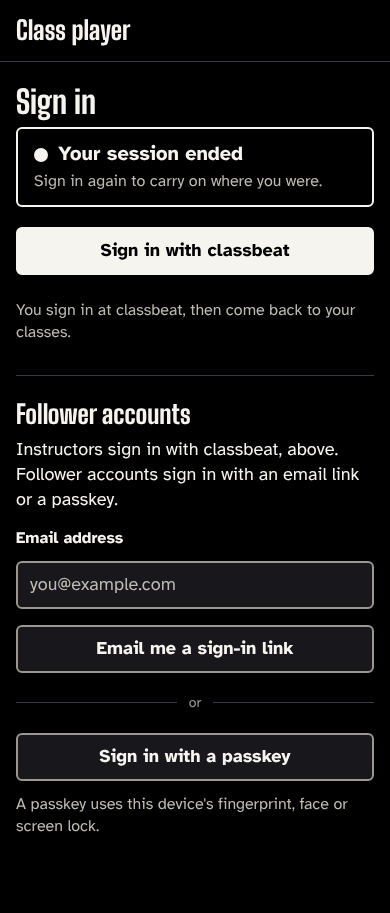
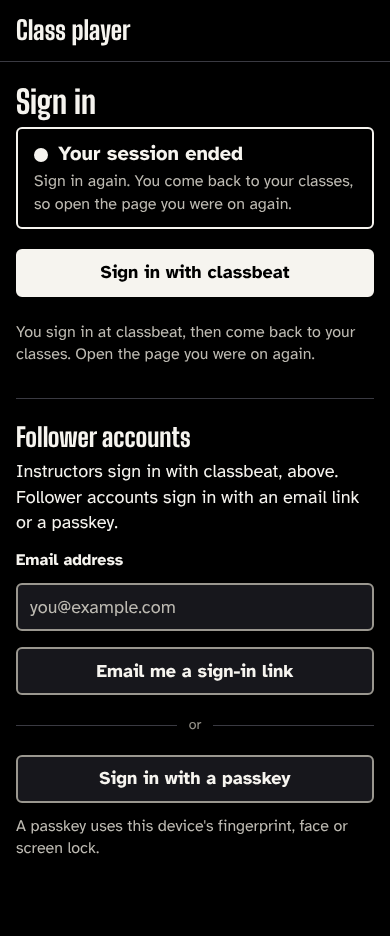
docs(design): a classbeat sign-in keeps no way back; refused re-authentication (#511)
Sign-in lands on /classes, so the session-ended page and the return
paragraph say so; the email-link return is follower-only. New state for
a refused re-authentication (still signed in, never starts sign_in).
Opening and the reason line are marked as not yet built, with the
build differences from #508. Offline mock-up, backend gaps noted.

Claude-Session: https://claude.ai/code/session_01V8DoTxwfzpAUiHqVx7SjRn

Changed region(s): [[0.0308, 0.4294, 0.9538, 0.92], [0.0, 0.0307, 1.0, 0.3987]]

diff --git a/docs/design/mockups/site-pages.js b/docs/design/mockups/site-pages.js
@@ -40,13 +40,15 @@ add('sign-in-link', 'Finish signing in', null, `${h1('Finish signing in')}${p('P
 add('sign-in-link-working', 'Signing in', null, `${h1('Finish signing in')}${status('Signing you in…')}${btns(btn('Sign in', { primary: true, dis: true, block: true }))}`, 'State: waiting for POST /api/site/sign-in/complete. The button stays but cannot be pressed again.', true);
 add('sign-in-link-refused', 'Link cannot be used', null, `${h1('Sign in')}${plate('This link cannot be used', 'It may have run out (a link works for 15 minutes), been used already, or been asked for in a different browser.')}${h2('Get a new link')}${p('Ask for it in the browser you want to sign in with.')}${signInForm({ email: { hint: '' } })}`, 'State: 401 sign_in_refused from POST /api/site/sign-in/complete. One answer for every refusal.', true);
 add('sign-in-passkey-waiting', 'Sign in: waiting for passkey', null, `${h1('Sign in')}${status('Waiting for your passkey. Follow the prompt from your browser or device.')}${signInForm({ passkey: 'Waiting for your passkey…', passkeyDis: true, emailDis: true, classbeatDis: true })}`, 'State: the browser asks for a passkey (navigator.credentials.get) after POST /api/site/sign-in/passkey/options. The classbeat, email and passkey actions are all off, so only one request is under way.', true);
-add('sign-in-passkey-failed', 'Sign in: passkey failed', null, `${h1('Sign in')}${plate('That passkey could not be used', 'The request may have been cancelled, or the passkey may have been removed. Try again, or get a link by email.', btn('Try again', { q: true }))}${signInForm({ email: { hint: '' } })}`, 'State: the browser cancelled, or 401 from POST /api/site/sign-in/passkey/complete. A 429 from it shows the "Too many sign-in requests" plate.', true);
-add('sign-in-session-ended', 'Sign in: session ended', null, `${h1('Sign in')}${note('Your session ended', 'Sign in again to carry on where you were.')}${signInForm({ email: { hint: '' } })}`, 'State: any signed-in route answered 401 not_signed_in. The page the person was on is kept (same-site paths only) and opened after sign-in.', true);
+add('sign-in-passkey-failed', 'Sign in: passkey failed', null, `${h1('Sign in')}${plate('That passkey could not be used', 'The request may have been cancelled, or the passkey may have been removed. Try again, or ask for an email link below.', btn('Try again', { q: true }))}${signInForm({ email: { hint: '' } })}`, 'State: the browser cancelled, or 401 from POST /api/site/sign-in/passkey/complete. A 429 from it shows the "Too many sign-in requests" plate.', true);
+add('sign-in-session-ended', 'Sign in: session ended', null, `${h1('Sign in')}${note('Your session ended', 'Sign in again. You come back to your classes, so open the page you were on again.')}${signInForm({ email: { hint: '' }, line: `${LINE} Open the page you were on again.` })}`, 'State: any signed-in route answered 401 not_signed_in. A classbeat sign-in lands on /classes and keeps no way back (ADR 0010 section 6); only the follower email link returns to the page.', true);
 add('sign-in-classbeat-return', 'Sign in: from the companion', null, `${h1('Sign in')}${signInForm({ line: `${LINE} Then open the companion again.` })}`, 'State: /sign-in#return=control (or control.<code>): the entry is kept in memory and the fragment is removed at once. A classbeat sign-in carries no return entry (ADR 0010 section 6), so the line under the button says where the person lands and what to do after. The class code is never shown.', true);
 add('sign-in-classbeat-opening', 'Sign in: opening classbeat', null, `${h1('Sign in')}${status('Opening classbeat…')}${signInForm({ classbeatDis: true, emailDis: true, passkeyDis: true })}`, 'State: POST /api/site/sign-in/classbeat/start sent, the page is about to go to the authorize address. One working line under the heading; the button keeps its label and is off, with the email and passkey actions.', true);
 add('sign-in-classbeat-error', 'Sign in: classbeat did not finish', null, `${h1('Sign in')}${plate('The sign-in with classbeat did not finish', 'It may have run out of time (a sign-in works for 10 minutes), been used already, been started in a different browser, or your classbeat account may not be let in yet. Nothing was changed.')}${signInForm({ email: { hint: '' }})}`, 'State: /sign-in#error=classbeat, the answer to every refusal of the callback. One plate for every reason; the fragment is removed from the address bar at once.', true);
 add('sign-in-classbeat-failed', 'Sign in: classbeat did not open', null, `${h1('Sign in')}${plate('That did not work, and it was not your doing', 'Try again in a moment. If you were changing something, check that it happened before you repeat it.')}${signInForm({ email: { hint: '' } })}`, 'State: POST /api/site/sign-in/classbeat/start answered 5xx, or an answer with no usable address. The button under the plate is the retry and keeps its label.', true);
 add('sign-in-classbeat-limited', 'Sign in: too many classbeat starts', null, `${h1('Sign in')}${plate('Too many sign-in requests', 'Please try again in about 8 minutes. One network connection can start 20 sign-ins with classbeat in 10 minutes.')}${signInForm({ email: { hint: '' } })}`, 'State: 429 too_many_requests with Retry-After (480 s here) from POST /api/site/sign-in/classbeat/start.', true);
+add('sign-in-classbeat-offline', 'Sign in: offline', null, `${h1('Sign in')}${plate('You are offline', 'Check your connection, then try again.')}${signInForm({ email: { hint: '' } })}`, 'State: the classbeat start failed with no answer. The button under the plate is Sign in with classbeat again.', true);
+add('sign-in-classbeat-reauth-refused', 'Confirm it is you: not confirmed', 'none', `${h1('Confirm it is you')}${plate('classbeat did not confirm it is you', 'You may have signed in at classbeat as a different user. You are still signed in here, and nothing was changed. Sign in at classbeat as the same user, then make the change again.', `${btn('Confirm with classbeat')}${btn('Back to your classes', { q: true, link: true })}`)}`, 'State: /sign-in#error=classbeat while GET /api/site/me answers 200: the refused re-authentication. Not the sign-in page: no form, and the button sends the reauth purpose, never sign_in.');
 add('signed-out', 'Signed out', null, `${h1('Sign in')}${note('You are signed out')}${signInForm({ email: { hint: '' } })}`, 'State: after POST /api/site/sign-out (204).', true);
 add('account-deleted', 'Account deleted', null, `${h1('Sign in')}${note('Your account was deleted', 'Everything in it is gone. Devices remove their saved classes the next time they connect.')}${signInForm({ email: { hint: '' } })}`, 'State: after POST /api/site/account/delete (204).', true);
 

diff --git a/docs/design/mockups/site-sign-in-passkey-failed.html b/docs/design/mockups/site-sign-in-passkey-failed.html
@@ -11,7 +11,7 @@
 <!-- State: the browser cancelled, or 401 from POST /api/site/sign-in/passkey/complete. A 429 from it shows the "Too many sign-in requests" plate.  Spec: docs/design/site.md. Generated by site-pages.js: edit that, not this file. -->
 <header class="head"><div class="bar"><span class="brand"><span data-tier="minor" data-min-cap="17" data-lines="1">Class player</span></span></div></header>
 <main class="page narrow">
-<h1><span data-tier="minor" data-min-cap="21" data-lines="3">Sign in</span></h1><div class="plate" role="alert"><div class="head2"><span class="mark away"></span><span data-tier="minor" data-min-cap="13" data-lines="3">That passkey could not be used</span></div><p class="dt"><span data-tier="minor" data-min-cap="12" data-lines="6">The request may have been cancelled, or the passkey may have been removed. Try again, or get a link by email.</span></p><div class="btns"><span class="btn q" role="button"><span data-tier="minor" data-min-cap="12" data-lines="2">Try again</span></span></div></div><div class="btns"><span class="btn primary full" role="button"><span data-tier="minor" data-min-cap="12" data-lines="2">Sign in with classbeat</span></span></div><p class="small"><span data-tier="minor" data-min-cap="10" data-lines="6">You sign in at classbeat, then come back to your classes.</span></p><div class="group"><h2><span data-tier="minor" data-min-cap="17" data-lines="3">Follower accounts</span></h2><p class=""><span data-tier="minor" data-min-cap="12" data-lines="6">Instructors sign in with classbeat, above. Follower accounts sign in with an email link or a passkey.</span></p><div class="field"><span class="lab"><span data-tier="minor" data-min-cap="10" data-lines="2">Email address</span></span><div class="input"><span class="ph"><span data-tier="minor" data-min-cap="12" data-lines="2">you@example.com</span></span></div></div><div class="btns"><span class="btn full" role="button"><span data-tier="minor" data-min-cap="12" data-lines="2">Email me a sign-in link</span></span></div><div class="or"><span data-tier="label" data-min-cap="9" data-lines="3">or</span></div><span class="btn full" role="button"><span data-tier="minor" data-min-cap="12" data-lines="2">Sign in with a passkey</span></span><p class="small"><span data-tier="minor" data-min-cap="10" data-lines="6">A passkey uses this device's fingerprint, face or screen lock.</span></p></div>
+<h1><span data-tier="minor" data-min-cap="21" data-lines="3">Sign in</span></h1><div class="plate" role="alert"><div class="head2"><span class="mark away"></span><span data-tier="minor" data-min-cap="13" data-lines="3">That passkey could not be used</span></div><p class="dt"><span data-tier="minor" data-min-cap="12" data-lines="6">The request may have been cancelled, or the passkey may have been removed. Try again, or ask for an email link below.</span></p><div class="btns"><span class="btn q" role="button"><span data-tier="minor" data-min-cap="12" data-lines="2">Try again</span></span></div></div><div class="btns"><span class="btn primary full" role="button"><span data-tier="minor" data-min-cap="12" data-lines="2">Sign in with classbeat</span></span></div><p class="small"><span data-tier="minor" data-min-cap="10" data-lines="6">You sign in at classbeat, then come back to your classes.</span></p><div class="group"><h2><span data-tier="minor" data-min-cap="17" data-lines="3">Follower accounts</span></h2><p class=""><span data-tier="minor" data-min-cap="12" data-lines="6">Instructors sign in with classbeat, above. Follower accounts sign in with an email link or a passkey.</span></p><div class="field"><span class="lab"><span data-tier="minor" data-min-cap="10" data-lines="2">Email address</span></span><div class="input"><span class="ph"><span data-tier="minor" data-min-cap="12" data-lines="2">you@example.com</span></span></div></div><div class="btns"><span class="btn full" role="button"><span data-tier="minor" data-min-cap="12" data-lines="2">Email me a sign-in link</span></span></div><div class="or"><span data-tier="label" data-min-cap="9" data-lines="3">or</span></div><span class="btn full" role="button"><span data-tier="minor" data-min-cap="12" data-lines="2">Sign in with a passkey</span></span><p class="small"><span data-tier="minor" data-min-cap="10" data-lines="6">A passkey uses this device's fingerprint, face or screen lock.</span></p></div>
 </main>
 </body>
 </html>

diff --git a/docs/design/mockups/site-sign-in-session-ended.html b/docs/design/mockups/site-sign-in-session-ended.html
@@ -8,10 +8,10 @@
 <link rel="stylesheet" href="site.css">
 </head>
 <body>
-<!-- State: any signed-in route answered 401 not_signed_in. The page the person was on is kept (same-site paths only) and opened after sign-in.  Spec: docs/design/site.md. Generated by site-pages.js: edit that, not this file. -->
+<!-- State: any signed-in route answered 401 not_signed_in. A classbeat sign-in lands on /classes and keeps no way back (ADR 0010 section 6); only the follower email link returns to the page.  Spec: docs/design/site.md. Generated by site-pages.js: edit that, not this file. -->
 <header class="head"><div class="bar"><span class="brand"><span data-tier="minor" data-min-cap="17" data-lines="1">Class player</span></span></div></header>
 <main class="page narrow">
-<h1><span data-tier="minor" data-min-cap="21" data-lines="3">Sign in</span></h1><div class="note" role="status"><div class="head2"><span class="mark ok"></span><span data-tier="minor" data-min-cap="13" data-lines="3">Your session ended</span></div><p class="dt"><span data-tier="minor" data-min-cap="10" data-lines="6">Sign in again to carry on where you were.</span></p></div><div class="btns"><span class="btn primary full" role="button"><span data-tier="minor" data-min-cap="12" data-lines="2">Sign in with classbeat</span></span></div><p class="small"><span data-tier="minor" data-min-cap="10" data-lines="6">You sign in at classbeat, then come back to your classes.</span></p><div class="group"><h2><span data-tier="minor" data-min-cap="17" data-lines="3">Follower accounts</span></h2><p class=""><span data-tier="minor" data-min-cap="12" data-lines="6">Instructors sign in with classbeat, above. Follower accounts sign in with an email link or a passkey.</span></p><div class="field"><span class="lab"><span data-tier="minor" data-min-cap="10" data-lines="2">Email address</span></span><div class="input"><span class="ph"><span data-tier="minor" data-min-cap="12" data-lines="2">you@example.com</span></span></div></div><div class="btns"><span class="btn full" role="button"><span data-tier="minor" data-min-cap="12" data-lines="2">Email me a sign-in link</span></span></div><div class="or"><span data-tier="label" data-min-cap="9" data-lines="3">or</span></div><span class="btn full" role="button"><span data-tier="minor" data-min-cap="12" data-lines="2">Sign in with a passkey</span></span><p class="small"><span data-tier="minor" data-min-cap="10" data-lines="6">A passkey uses this device's fingerprint, face or screen lock.</span></p></div>
+<h1><span data-tier="minor" data-min-cap="21" data-lines="3">Sign in</span></h1><div class="note" role="status"><div class="head2"><span class="mark ok"></span><span data-tier="minor" data-min-cap="13" data-lines="3">Your session ended</span></div><p class="dt"><span data-tier="minor" data-min-cap="10" data-lines="6">Sign in again. You come back to your classes, so open the page you were on again.</span></p></div><div class="btns"><span class="btn primary full" role="button"><span data-tier="minor" data-min-cap="12" data-lines="2">Sign in with classbeat</span></span></div><p class="small"><span data-tier="minor" data-min-cap="10" data-lines="6">You sign in at classbeat, then come back to your classes. Open the page you were on again.</span></p><div class="group"><h2><span data-tier="minor" data-min-cap="17" data-lines="3">Follower accounts</span></h2><p class=""><span data-tier="minor" data-min-cap="12" data-lines="6">Instructors sign in with classbeat, above. Follower accounts sign in with an email link or a passkey.</span></p><div class="field"><span class="lab"><span data-tier="minor" data-min-cap="10" data-lines="2">Email address</span></span><div class="input"><span class="ph"><span data-tier="minor" data-min-cap="12" data-lines="2">you@example.com</span></span></div></div><div class="btns"><span class="btn full" role="button"><span data-tier="minor" data-min-cap="12" data-lines="2">Email me a sign-in link</span></span></div><div class="or"><span data-tier="label" data-min-cap="9" data-lines="3">or</span></div><span class="btn full" role="button"><span data-tier="minor" data-min-cap="12" data-lines="2">Sign in with a passkey</span></span><p class="small"><span data-tier="minor" data-min-cap="10" data-lines="6">A passkey uses this device's fingerprint, face or screen lock.</span></p></div>
 </main>
 </body>
 </html>

diff --git a/docs/design/mockups/site-sign-in-classbeat-offline.html b/docs/design/mockups/site-sign-in-classbeat-offline.html
@@ -1,0 +1,17 @@
+<!doctype html>
+<html lang="en">
+<head>
+<meta charset="utf-8">
+<meta name="viewport" content="width=device-width, initial-scale=1">
+<title>Site: Sign in: offline</title>
+<link rel="stylesheet" href="tokens.css">
+<link rel="stylesheet" href="site.css">
+</head>
+<body>
+<!-- State: the classbeat start failed with no answer. The button under the plate is Sign in with classbeat again.  Spec: docs/design/site.md. Generated by site-pages.js: edit that, not this file. -->
+<header class="head"><div class="bar"><span class="brand"><span data-tier="minor" data-min-cap="17" data-lines="1">Class player</span></span></div></header>
+<main class="page narrow">
+<h1><span data-tier="minor" data-min-cap="21" data-lines="3">Sign in</span></h1><div class="plate" role="alert"><div class="head2"><span class="mark away"></span><span data-tier="minor" data-min-cap="13" data-lines="3">You are offline</span></div><p class="dt"><span data-tier="minor" data-min-cap="12" data-lines="6">Check your connection, then try again.</span></p></div><div class="btns"><span class="btn primary full" role="button"><span data-tier="minor" data-min-cap="12" data-lines="2">Sign in with classbeat</span></span></div><p class="small"><span data-tier="minor" data-min-cap="10" data-lines="6">You sign in at classbeat, then come back to your classes.</span></p><div class="group"><h2><span data-tier="minor" data-min-cap="17" data-lines="3">Follower accounts</span></h2><p class=""><span data-tier="minor" data-min-cap="12" data-lines="6">Instructors sign in with classbeat, above. Follower accounts sign in with an email link or a passkey.</span></p><div class="field"><span class="lab"><span data-tier="minor" data-min-cap="10" data-lines="2">Email address</span></span><div class="input"><span class="ph"><span data-tier="minor" data-min-cap="12" data-lines="2">you@example.com</span></span></div></div><div class="btns"><span class="btn full" role="button"><span data-tier="minor" data-min-cap="12" data-lines="2">Email me a sign-in link</span></span></div><div class="or"><span data-tier="label" data-min-cap="9" data-lines="3">or</span></div><span class="btn full" role="button"><span data-tier="minor" data-min-cap="12" data-lines="2">Sign in with a passkey</span></span><p class="small"><span data-tier="minor" data-min-cap="10" data-lines="6">A passkey uses this device's fingerprint, face or screen lock.</span></p></div>
+</main>
+</body>
+</html>

diff --git a/docs/design/mockups/site-sign-in-classbeat-reauth-refused.html b/docs/design/mockups/site-sign-in-classbeat-reauth-refused.html
@@ -1,0 +1,17 @@
+<!doctype html>
+<html lang="en">
+<head>
+<meta charset="utf-8">
+<meta name="viewport" content="width=device-width, initial-scale=1">
+<title>Site: Confirm it is you: not confirmed</title>
+<link rel="stylesheet" href="tokens.css">
+<link rel="stylesheet" href="site.css">
+</head>
+<body>
+<!-- State: /sign-in#error=classbeat while GET /api/site/me answers 200: the refused re-authentication. Not the sign-in page: no form, and the button sends the reauth purpose, never sign_in.  Spec: docs/design/site.md. Generated by site-pages.js: edit that, not this file. -->
+<header class="head"><div class="bar"><span class="brand"><span data-tier="minor" data-min-cap="17" data-lines="1">Class player</span></span><nav class="nav" aria-label="Main"><span class="a"><span data-tier="minor" data-min-cap="12" data-lines="1">Classes</span></span><span class="a"><span data-tier="minor" data-min-cap="12" data-lines="1">Devices</span></span><span class="a"><span data-tier="minor" data-min-cap="12" data-lines="1">Account</span></span><span class="navbtn out ul" role="button"><span data-tier="minor" data-min-cap="12" data-lines="1">Sign out</span></span></nav></div></header>
+<main class="page">
+<h1><span data-tier="minor" data-min-cap="21" data-lines="3">Confirm it is you</span></h1><div class="plate" role="alert"><div class="head2"><span class="mark away"></span><span data-tier="minor" data-min-cap="13" data-lines="3">classbeat did not confirm it is you</span></div><p class="dt"><span data-tier="minor" data-min-cap="12" data-lines="6">You may have signed in at classbeat as a different user. You are still signed in here, and nothing was changed. Sign in at classbeat as the same user, then make the change again.</span></p><div class="btns"><span class="btn" role="button"><span data-tier="minor" data-min-cap="12" data-lines="2">Confirm with classbeat</span></span><span class="btn q" role="link"><span data-tier="minor" data-min-cap="12" data-lines="2">Back to your classes</span></span></div></div>
+</main>
+</body>
+</html>

diff --git a/docs/design/site.md b/docs/design/site.md
@@ -1,10 +1,11 @@
 # Screen spec: the website pages
 
 Status: proposed in the pull request for issue #131; amended for issue #511 (instructors sign in with
-classbeat, ADR 0010; the account states built in #508 and #513). Design system: [system.md](system.md).
+classbeat, ADR 0010; the account states built in #508 and #513). Two account states differ from #508 as
+built and are marked "Specified for #511, not yet built" (Opening classbeat, the reason line). Design system: [system.md](system.md).
 Neighbouring specs: [class-list.md](class-list.md) (the same class list, in the computer's own
 window) and [presenter.md](presenter.md) (wording convention). Reference mock-ups and screenshots:
-[mockups/](mockups/), files `site-*.html` (74 mock-ups) and `site-*-<width>.png`. **Where a mock-up and this text
+[mockups/](mockups/), files `site-*.html` (76 mock-ups) and `site-*-<width>.png`. **Where a mock-up and this text
 differ, the text wins**; the mock-ups are layout references, and the rows below say where one
 shows something older. The product's CI shoots 23 states of the first website issue (sign-in,
 the shell and the errors). Seven have no mock-up of their own and are held to the row that
@@ -38,9 +39,14 @@ player" in the header, one string to replace.
 | Errors | shown in place of a page, or on any page | Anyone |
 
 A signed-in page reached while signed out (a 401 `not_signed_in` from any route) goes to Sign in
-with the note "Your session ended" and, after sign-in, returns to the page that asked. **Only a
-path of this site from the table above is ever returned to** (no address typed by anyone else is
-followed, no open redirect), and the `/pair` and `/link/source` query is kept with it. No page
+with the note "Your session ended". **A sign-in with classbeat does not return to the page that
+asked**: it lands on `/classes` (ADR 0010, section 6), and the page that asked, `/pair?code=…` and
+`/link/source?...` included, is opened again by hand, with the pairing code typed again. The sign-in
+page says so under "Sign in with classbeat" (row "Session ended"), so nothing promises a return
+the backend does not make. **Only for a sign-in by email link** (follower accounts; ADR 0006) the
+page returns to the page that asked: only a path of this site from the table above is ever
+returned to (no address typed by anyone else is followed, no open redirect), and the `/pair` and
+`/link/source` query is kept with it. No page
 address is ever put in the sign-in address, and it never holds a token. The one thing the sign-in address may carry is a **return entry** in the fragment (never a query), taken from a fixed table in the site's code (today one entry, `control`, which means `/control`). The fragment is `#return=control`, or `#return=control.<class code>` when the rider has typed a class code in full or arrived with `#<join code>`; the class code only names the session and gives no control, and the control code is never sent. The page reads the entry, keeps it in memory only and removes it from the address bar at once, before any request. Anything that is not in the table, or a code that is not in the class-code alphabet, is ignored and the sign-in goes to the default page (`/classes`). After sign-in the page returns by a full page load (`/control` is a separate bundle), to `/control` or `/control#<class code>`. Nothing is written to storage. A sign-in by email link opened in a new tab returns to the companion too (ADR 0006); the page looks the same. **A sign-in with classbeat carries no return entry** (ADR 0010, section 6): it lands on `/classes`, the entry is kept in memory only and is never sent, and the sign-in page says so before the person leaves (row "Start, from the companion" below).
 
 ## What every page has
@@ -143,8 +149,9 @@ labels, so only one request is open.
 | Start, from the companion | `/sign-in#return=control[.<code>]` (the steering page): the same page, with one more sentence under "Sign in with classbeat": "Then open the companion again." The entry is read, kept in memory and removed from the address bar at once, as before; the class code is never shown and never sent. The email link under it still returns to the companion (ADR 0006) | the same | [from the companion](mockups/site-sign-in-classbeat-return.html) |
 | Opening classbeat | One working line under the heading, "Opening classbeat…" (a hollow circle and the words, the "…" a real ellipsis kept with "classbeat"). The three actions are disabled and keep their labels; the classbeat button does not change to "Opening classbeat…". Nothing else says it | pending, then the page leaves for classbeat | [opening](mockups/site-sign-in-classbeat-opening.html) |
 | classbeat did not finish | `/sign-in#error=classbeat`. Plate "The sign-in with classbeat did not finish", "It may have run out of time (a sign-in works for 10 minutes), been used already, been started in a different browser, or your classbeat account may not be let in yet. Nothing was changed." One plate for every refusal of the callback, because the address carries no reason (ADR 0010, section 2). The plate heads the form; **the button under it is "Sign in with classbeat" again, never "Try again"**. Focus goes to the plate. The fragment is read, kept in memory and removed from the address bar at once; only the exact value `classbeat` is read, anything else after `#error=` is ignored and shows the plain Start | none (the callback's `303`) | [did not finish](mockups/site-sign-in-classbeat-error.html) |
-| classbeat did not open | Plate "That did not work, and it was not your doing", "Try again in a moment. If you were changing something, check that it happened before you repeat it." The same plate for a 5xx and for an answer with no usable address (not HTTPS, a user name in it, and the other checks of `classbeat-start-model.ts`). Offline: the plate "You are offline", "Check your connection, then try again." (layout as this row). The button under the plate is "Sign in with classbeat" again | 5xx, or an answer the page does not accept; offline | [did not open](mockups/site-sign-in-classbeat-failed.html) |
+| classbeat did not open | Plate "That did not work, and it was not your doing", "Try again in a moment. If you were changing something, check that it happened before you repeat it." The same plate for a 5xx and for an answer with no usable address (not HTTPS, a user name in it, and the other checks of `classbeat-start-model.ts`). Offline: the plate "You are offline", "Check your connection, then try again." ([offline](mockups/site-sign-in-classbeat-offline.html)). The button under the plate is "Sign in with classbeat" again | 5xx, or an answer the page does not accept; offline | [did not open](mockups/site-sign-in-classbeat-failed.html) |
 | classbeat limit | Plate "Too many sign-in requests", "Please try again in about N minutes" from `Retry-After`, then "One network connection can start 20 sign-ins with classbeat in 10 minutes." The page stays | 429 from `POST sign-in/classbeat/start` | [limit](mockups/site-sign-in-classbeat-limited.html) |
+| classbeat did not confirm (still signed in) | Every refusal of the callback answers `/sign-in#error=classbeat`, a **re-authentication** too (ADR 0010, sections 2 and 5): the classbeat user was another account, the sign-in was too old, or the cookie did not match. The person is **still signed in** and arrives from "Confirm with classbeat". On `#error=classbeat` the page first asks `GET me`: 401 shows the row "classbeat did not finish" above; 200 shows this state; while it is pending, one working line "Checking your sign-in…". This state is **not the sign-in page**: signed-in header, `h1` "Confirm it is you", and plate "classbeat did not confirm it is you", "You may have signed in at classbeat as a different user. You are still signed in here, and nothing was changed. Sign in at classbeat as the same user, then make the change again." No email form, no passkey, no follower group. Two buttons: "Confirm with classbeat" (it sends `{"purpose":"reauth"}`, **never `sign_in`**, because a `sign_in` would end this session and could sign in as another account) and "Back to your classes" (a link). A failed or offline `GET me` shows that failure's plate with no sign-in action | `GET me`; `POST sign-in/classbeat/start` with `{"purpose":"reauth"}` | [not confirmed](mockups/site-sign-in-classbeat-reauth-refused.html) |
 | Not an email | Field error "That does not look like an email address", the typed text kept | 422 `invalid_email` | [invalid](mockups/site-sign-in-invalid-email.html) |
 | Too many requests | Plate "Too many sign-in requests", "Please try again in about N minutes" from `Retry-After`, then "One network connection can ask for 10 sign-in links an hour, whatever the email address"; the form stays | 429 `too_many_requests` | [limited](mockups/site-sign-in-limited.html) |
 | Check your mail | Note "A link is on its way if *address* can sign in", how long it works (once, 15 minutes, this browser), a hint about spam and spelling, the line "If you run classes, an email link does not work for you. Go back and sign in with classbeat.", "Send the link again", "Use a different address" | 200 `accepted` | [sent](mockups/site-sign-in-sent.html) |
@@ -153,10 +160,10 @@ labels, so only one request is open.
 | Signing in | The button disabled, "Signing you in…" | pending | [working](mockups/site-sign-in-link-working.html) |
 | Link expired, used or refused | Plate "This link cannot be used" with the three possible reasons, and the sign-in page (both blocks) to ask for a new link. One page for every refusal (expired, used, unknown, other browser) | 401 `sign_in_refused` | [refused](mockups/site-sign-in-link-refused.html) |
 | Waiting for a passkey | "Waiting for your passkey. Follow the prompt from your browser or device", the passkey button, now reading "Waiting for your passkey…", "Email me a sign-in link" and "Sign in with classbeat" all disabled, so only one request is under way (disabled text keeps 7 : 1, S2). It lasts until the answer is in, through the one resend after a busy answer (below) | the browser's prompt | [waiting](mockups/site-sign-in-passkey-waiting.html) |
-| Passkey failed | Plate "That passkey could not be used", "Try again", and the email form | 401 from `POST sign-in/passkey` | [failed](mockups/site-sign-in-passkey-failed.html) |
+| Passkey failed | Plate "That passkey could not be used", "The request may have been cancelled, or the passkey may have been removed. Try again, or ask for an email link below." (the plate sits above the page, so "below" is the follower group), "Try again", and the email form | 401 from `POST sign-in/passkey` | [failed](mockups/site-sign-in-passkey-failed.html) |
 | Passkey limit | Plate "Too many sign-in requests", "Please try again in about N minutes" from `Retry-After`, then "After 10 passkey sign-ins that fail within 10 minutes, this network connection has to wait"; the form stays | 429 from `POST sign-in/passkey` with a `Retry-After` over 1 second | [limited](mockups/site-sign-in-limited.html), layout only: it shows the link limit's words. The words are this row's; the CI shots `site-sign-in-passkey-limited-*` show them |
 | Passkey wait | Plate "Too many sign-in requests", then only "Please try again in about N minutes" from `Retry-After`, or "Please try again in a moment" when it is 1 second. Nothing about failed sign-ins: the person may have made none. The form stays | 429 from `POST sign-in/passkey/options` (sign-ins started); 429 from `POST sign-in/passkey` with no `Retry-After`; 429 from `POST sign-in/passkey` with `Retry-After: 1` (another attempt still being checked) on the one resend too | [limited](mockups/site-sign-in-limited.html), layout only: it shows the link limit's words. The words are this row's; the CI shots `site-sign-in-passkey-wait-*` and `site-sign-in-passkey-busy-*` show them |
-| Session ended | Note "Your session ended" above the form | 401 `not_signed_in` | [ended](mockups/site-sign-in-session-ended.html) |
+| Session ended | Note "Your session ended", "Sign in again. You come back to your classes, so open the page you were on again." above the form, and under "Sign in with classbeat" the line "You sign in at classbeat, then come back to your classes. Open the page you were on again." (a classbeat sign-in keeps no way back, ADR 0010, section 6; only the follower email link returns to the page) | 401 `not_signed_in` | [ended](mockups/site-sign-in-session-ended.html) |
 | Signed out | Note "You are signed out" | `POST sign-out` (204) | [signed out](mockups/site-signed-out.html) |
 | Account deleted | Note "Your account was deleted", "Devices remove their saved classes the next time they connect" | `POST account/delete` (204) | [deleted](mockups/site-account-deleted.html) |
 
@@ -273,7 +280,7 @@ classbeat and cannot add one."
 | Remove, confirming | Panel "Remove “*name*”?", "You can no longer sign in with it.", "Keep it" (default), "Remove passkey" | `DELETE passkeys/{id}` | [remove](mockups/site-passkey-remove.html) |
 | At the limit | Note "You have 10 passkeys", the add button disabled with its reason in words | list | [limit](mockups/site-passkeys-limit.html) |
 | **Not available for this account** | Plate "Passkeys are not available for this account", "You sign in with classbeat. Passkeys already listed here can still be renamed and removed." **No button on the plate**: no sign-in again can open adding, so it never asks to confirm and never shows "Confirm it is you". Focus goes to the plate. Below it the count and the list, unchanged. "Add a passkey", the explanation, the "none yet" line and the limit note are gone. The same from the options step and from the registration step (the CI shots `site-passkey-add-closed` and `site-passkey-add-closed-register` hold the same screen); nothing is sent again and the page does not leave | 403 `passkeys_closed` from `POST passkeys/options` or `POST passkeys` | [not available](mockups/site-passkey-add-closed.html) |
-| Not available, after a removal | After a rename or a removal clears the plate, the page still says why there is no add button, in a **reason line**: the hollow square and one sentence, "Passkeys are not available for this account. You sign in with classbeat.", 18 px, `--light-1`, not a plate and not a note (no box, no `role`; it is a fact, not an event). It sits where "Add a passkey" would be: under the page's note or heading, above the count, with 16 px above and below. A paragraph of plain text in that place is not allowed | list, after `DELETE passkeys/{id}` | [reason line](mockups/site-passkeys-closed-removed.html) |
+| Not available, after a removal | After a rename or a removal clears the plate, the page still says why there is no add button, in a **reason line**: the hollow square and one sentence, "Passkeys are not available for this account. You sign in with classbeat.", 18 px, `--light-1`, not a plate and not a note (no box, no `role`; it is a fact, not an event). It sits where "Add a passkey" would be: under the page's note or heading, above the count, with 16 px above and below. A paragraph of plain text in that place is not allowed. **As built (#508):** `passkeys.ts` writes a plain paragraph with three sentences ("… You sign in with classbeat. Passkeys already listed here can still be renamed and removed."). **Specified for #511, not yet built:** the hollow square and the two sentences above; the site build changes it | list, after `DELETE passkeys/{id}` | [reason line](mockups/site-passkeys-closed-removed.html) |
 
 **Linked apps.** "An app you link can send classes to your account and remove the ones it sent. It
 sees nothing else." Rows: name, linked date, last used or "Not used yet", "Revoke"; "1 of 5 apps".
@@ -332,7 +339,7 @@ is not the page they come back to.
 | State | What the person sees | Route | Mock-up |
 |---|---|---|---|
 | Confirm it is you | Plate "Confirm it is you", "For this change you need to have signed in within the last 10 minutes. Sign in again with classbeat, which takes you to your classes, then come back here and make the change again.", and one button, **"Confirm with classbeat"**. No "Use a passkey", no "Email me a link". Focus goes to the plate. The same from the registration step of a passkey (the CI shot `site-recent-sign-in-register`) | 403 `recent_sign_in_required` | [confirm](mockups/site-recent-sign-in.html) |
-| Opening classbeat | **One message, at the head of the page, and only one.** The plate is replaced by the working line "Opening classbeat…" (hollow circle and words) with the small line "Nothing was changed here." under it. The button is gone with the plate: it appears neither as a disabled button nor as a second line "Opening classbeat" under the plate. Focus goes to the line (`role="status"`). The page is left a moment later | `POST sign-in/classbeat/start` with `{"purpose":"reauth"}` and no `return_to`, pending | [opening](mockups/site-recent-sign-in-opening.html) |
+| Opening classbeat | **One message, at the head of the page, and only one.** The plate is replaced by the working line "Opening classbeat…" (hollow circle and words) with the small line "Nothing was changed here." under it. The button is gone with the plate: it appears neither as a disabled button nor as a second line "Opening classbeat" under the plate. Focus goes to the line (`role="status"`). The page is left a moment later. **As built (#508):** `confirm.ts` keeps the plate, relabels its button "Opening classbeat…" (disabled) and adds the line "Opening classbeat. Nothing was changed here.", so the same words show twice. **Specified for #511, not yet built:** the one line above; the site build changes it, and a screenshot of the as-built state fails this row | `POST sign-in/classbeat/start` with `{"purpose":"reauth"}` and no `return_to`, pending | [opening](mockups/site-recent-sign-in-opening.html) |
 | Not opened | The failed plate **replaces** the "Confirm it is you" plate; it does not stack under it. Its words: "That did not work, and it was not your doing" with the server fault's detail (5xx, or an address the page does not accept); "Please wait a little", "You have asked for too much in a short time. Try again in about N minutes. Nothing was changed." (429); "You are offline", "Check your connection, then try again." (offline). **The plate's button keeps the label "Confirm with classbeat"** and never becomes "Try again": it does the same thing again. A 401 is not a failed plate: it goes to Sign in with "Your session ended" | 5xx, 429, offline, or a start with no usable address | [not opened](mockups/site-recent-sign-in-failed.html) |
 
 **A label that ends in "…" keeps it.** "Opening classbeat…", "Delete my account…" and every other label
@@ -450,12 +457,17 @@ web issue or a backend issue.
 9. **The account kind is not in the contract.** `/me` and `GET passkeys` do not say whether adding
    a passkey is open, so "Add a passkey" shows until the first `passkeys_closed` (#508). A field
    such as `can_add` would show the closed state from the start, with the words already
-   specified here. Not blocking.
+   specified here. Not blocking. Until then, adding checks a recent sign-in before it checks
+   `passkeys_closed`: an instructor more than 10 minutes after sign-in sees "Confirm it is you",
+   makes the round trip to classbeat and only then "Passkeys are not available". Checking
+   "closed" first, or the field, removes that detour.
 10. **Followers and "Confirm it is you".** The plate offers classbeat only, because that is the
     only confirmation built. How a follower account confirms is for the follower decision
     (ADR 0010, section 7), and not specified here. The follower group on the sign-in page is a
     block that can be dropped without touching the classbeat block above it, if followers do not
-    ship.
+    ship. The follower account kind does not exist yet: today the backend refuses every email-link
+    and passkey sign-in (ADR 0010, section 7), so the group describes a path that is closed until
+    the follower decision.
 
 ## What the site never shows (plan section 3)
 
